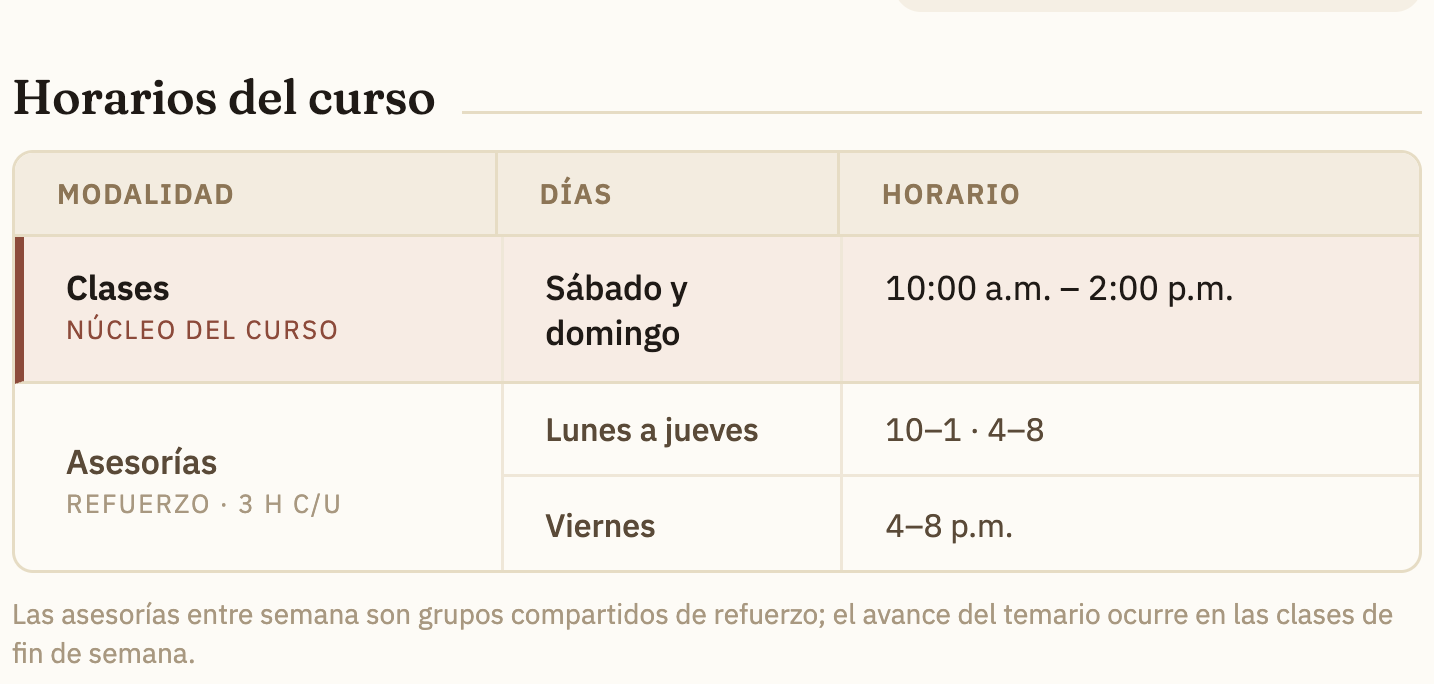
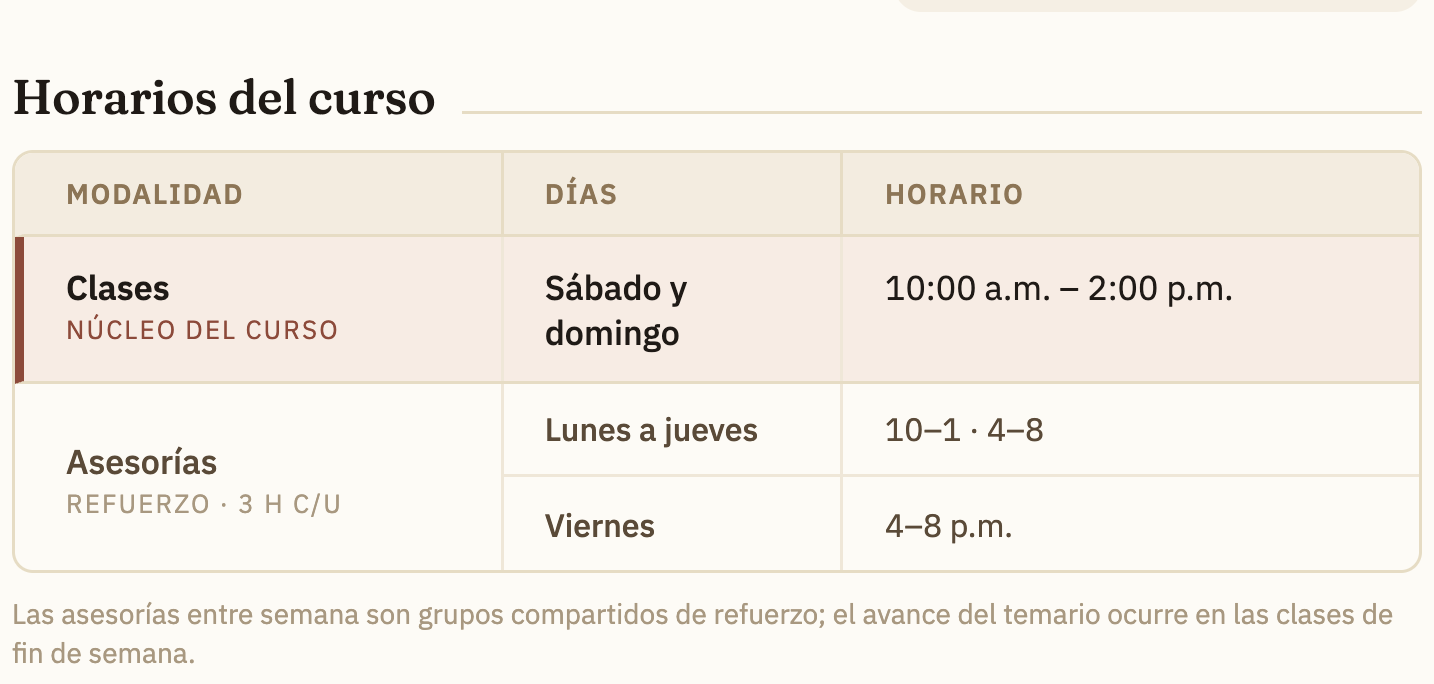
canal: comunicado — segundo fix, columnas de la tabla alineadas entre filas

diff --git a/repo-diseno/RESPUESTA-code-comunicado-tabla.md b/repo-diseno/RESPUESTA-code-comunicado-tabla.md
@@ -28,6 +28,18 @@ columnas de la tarjeta:
 Mantuve la notación compacta de la tarjeta (`10–1 · 4–8`) en vez de la larga de la
 hoja Carta, para no romper el alto del card.
 
+## Segundo fix · columnas desalineadas entre filas
+Gil también notó que las columnas no coincidían verticalmente entre filas
+(Modalidad/Días/Horario del encabezado y de Clases quedaban corridas respecto a
+los renglones de Asesorías). **Causa:** cada fila era un `display:grid`
+independiente con columnas en `fr`; al tener distinto contenido, cada fila
+resolvía distinto el ancho de sus columnas. Además el encabezado no traía el
+`border-left:3px` que sí tienen las filas del cuerpo, así que iba 3px corrido.
+**Fix:** anchos fijos iguales en las tres filas
+(`grid-template-columns:34.1% 24.4% 41.5%`, ≈ el 1.4:1:1.7 original) y el mismo
+`border-left:3px solid transparent` en el encabezado. Verificado: las tres filas
+arrancan sus columnas en la misma X exacta.
+
 ![Tabla arreglada](revision-comunicado/tabla-asesorias-arreglada.png)
 
 ## Nota
